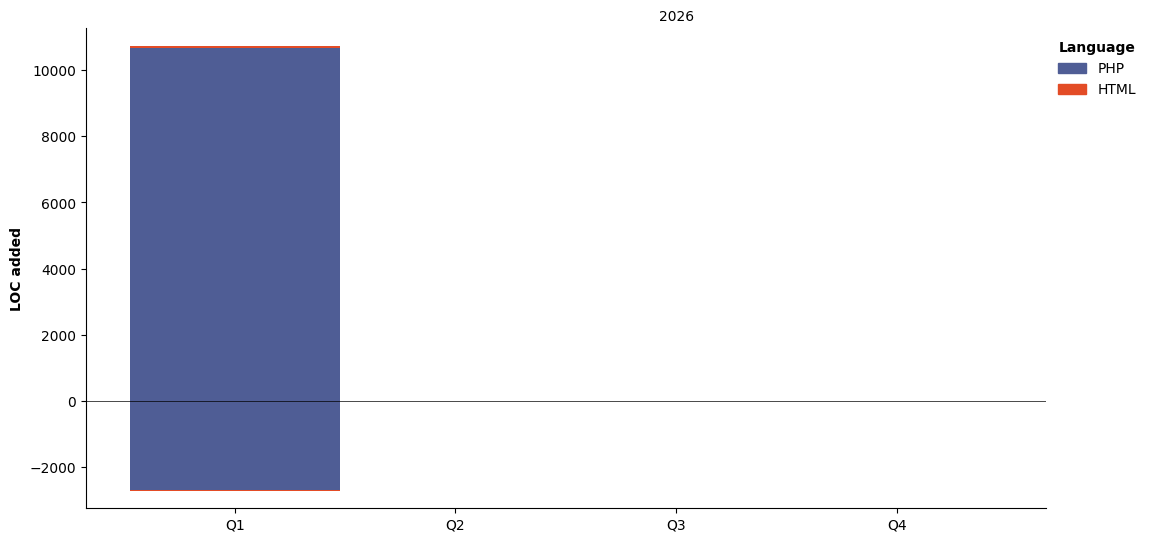
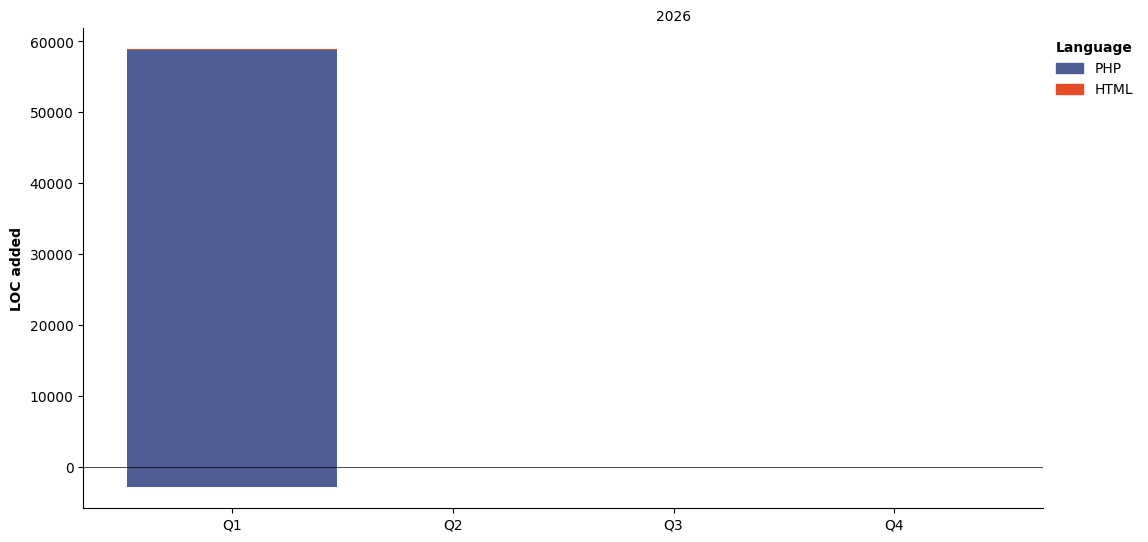
Updated with Dev Metrics

diff --git a/README.md b/README.md
@@ -55,14 +55,74 @@ Technology and games inspire me to keep building, improving, and exploring new p
 <!--START_SECTION:waka-->
 ![Code Time](http://img.shields.io/badge/Code%20Time-0%20secs-blue?style=flat)
 
-![Profile Views](http://img.shields.io/badge/Profile%20Views-55-blue?style=flat)
+![Profile Views](http://img.shields.io/badge/Profile%20Views-68-blue?style=flat)
+
+**🐱 My GitHub Data** 
+
+> 📦 ? Used in GitHub's Storage 
+ > 
+> 🏆 31 Contributions in the Year 2026
+ > 
+> 🚫 Not Opted to Hire
+ > 
+> 📜 3 Public Repositories 
+ > 
+> 🔑 0 Private Repositories 
+ > 
+**I'm a Night 🦉** 
+
+```text
+🌞 Morning                0 commits           ░░░░░░░░░░░░░░░░░░░░░░░░░   00.00 % 
+🌆 Daytime                17 commits          ███████████░░░░░░░░░░░░░░   42.50 % 
+🌃 Evening                19 commits          ████████████░░░░░░░░░░░░░   47.50 % 
+🌙 Night                  4 commits           ██░░░░░░░░░░░░░░░░░░░░░░░   10.00 % 
+```
+📅 **I'm Most Productive on Sunday** 
+
+```text
+Monday                   8 commits           █████░░░░░░░░░░░░░░░░░░░░   20.00 % 
+Tuesday                  0 commits           ░░░░░░░░░░░░░░░░░░░░░░░░░   00.00 % 
+Wednesday                4 commits           ██░░░░░░░░░░░░░░░░░░░░░░░   10.00 % 
+Thursday                 4 commits           ██░░░░░░░░░░░░░░░░░░░░░░░   10.00 % 
+Friday                   0 commits           ░░░░░░░░░░░░░░░░░░░░░░░░░   00.00 % 
+Saturday                 3 commits           ██░░░░░░░░░░░░░░░░░░░░░░░   07.50 % 
+Sunday                   21 commits          █████████████░░░░░░░░░░░░   52.50 % 
+```
+
+
+📊 **This Week I Spent My Time On** 
+
+```text
+🕑 Time Zone: America/Sao_Paulo
+
+💬 Programming Languages: 
+No Activity Tracked This Week
+
+🔥 Editors: 
+No Activity Tracked This Week
+
+🐱💻 Projects: 
+No Activity Tracked This Week
+
+💻 Operating System: 
+No Activity Tracked This Week
+```
+
+**I Mostly Code in HTML** 
+
+```text
+HTML                     1 repo              ████████████░░░░░░░░░░░░░   50.00 % 
+PHP                      1 repo              ████████████░░░░░░░░░░░░░   50.00 % 
+```
+
+
 
 **Timeline**
 
 ![Lines of Code chart](https://raw.githubusercontent.com/AngelEnd-dev/AngelEnd-dev/main/assets/bar_graph.png)
 
 
- Last Updated on 18/03/2026 05:20:33 UTC
+ Last Updated on 19/03/2026 05:15:41 UTC
 <!--END_SECTION:waka-->
 
 <br/>
